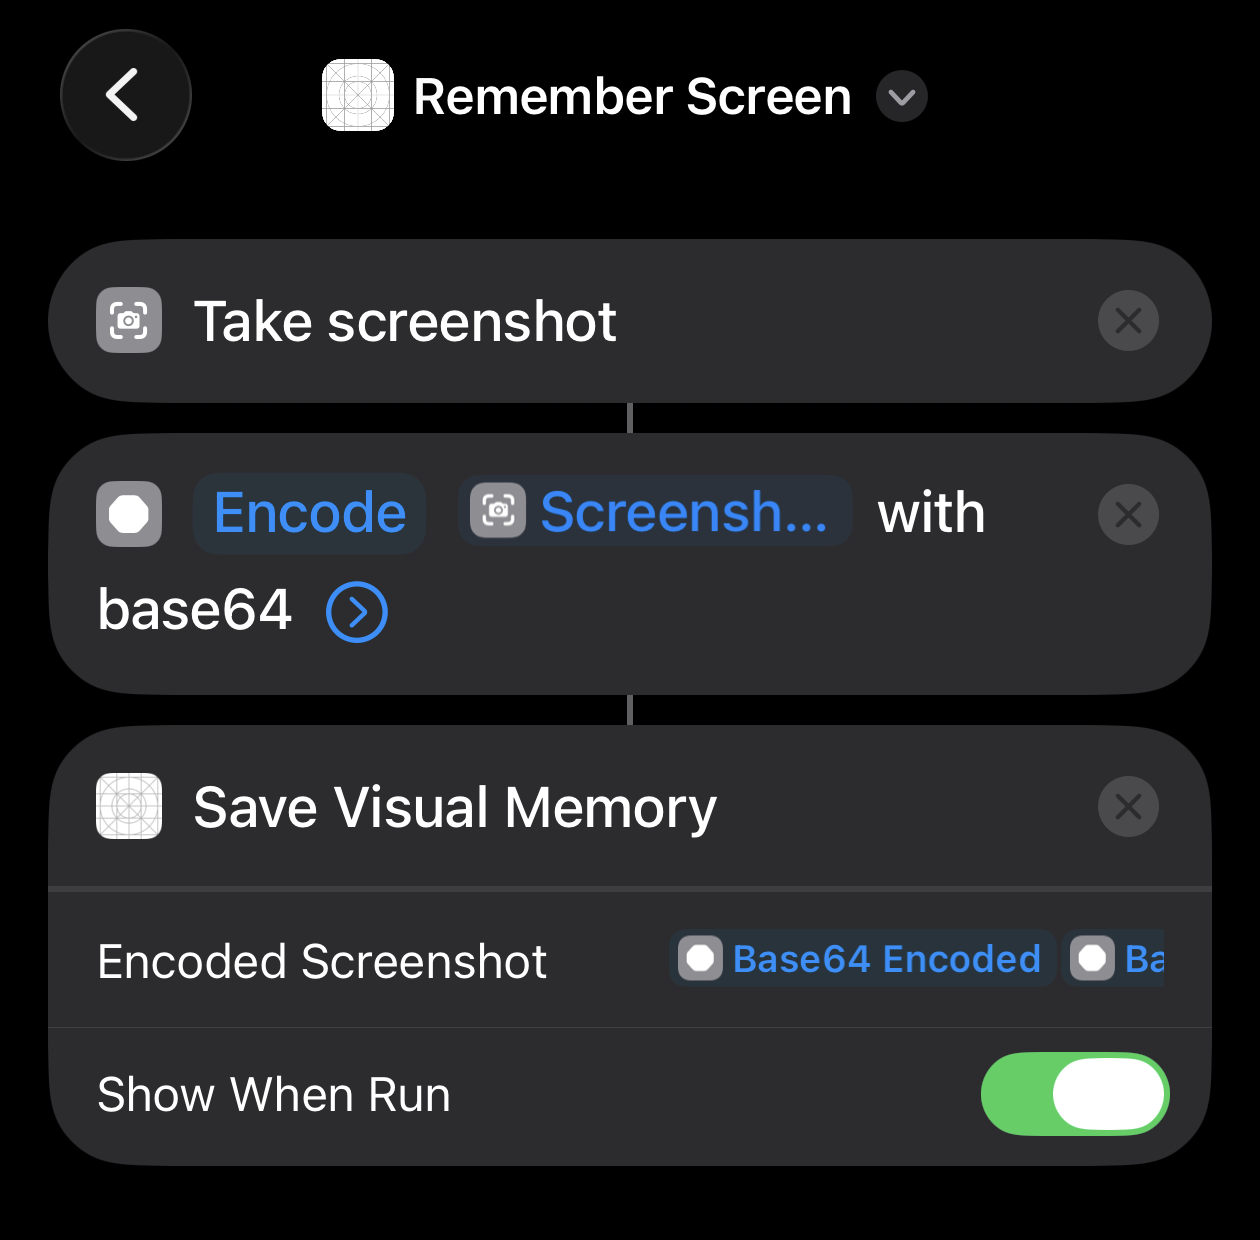
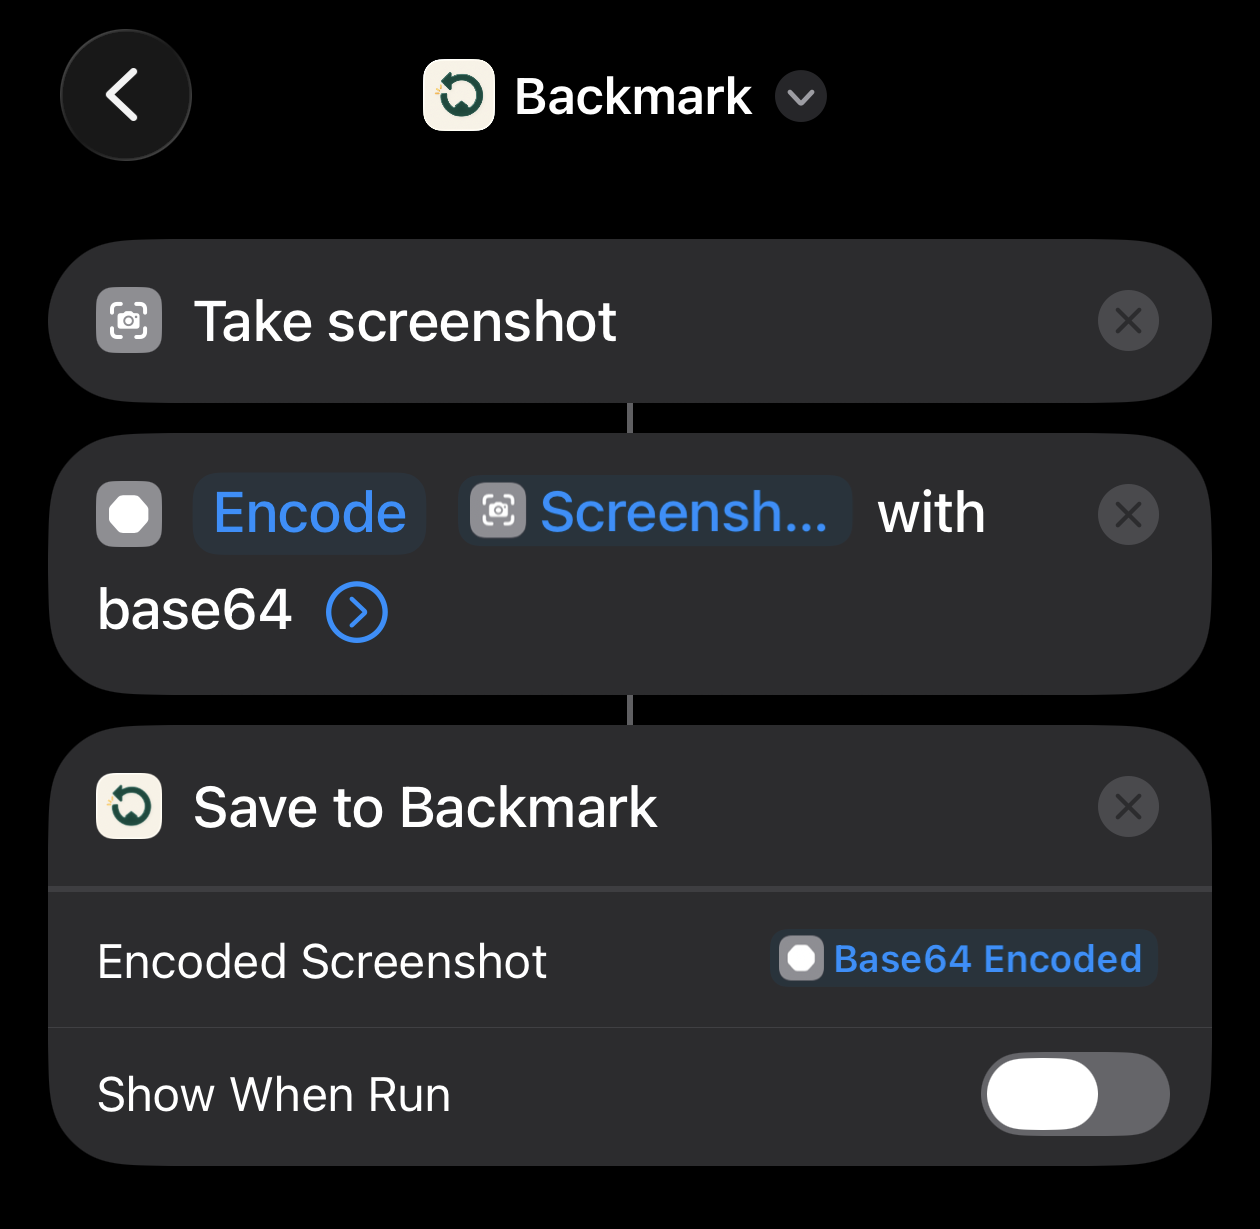
Update Back Tap shortcut example to Save to Backmark
Replace the support page's example shortcut screenshot with the current Backmark shortcut and match its caption and alt text to the Save to Backmark action.

diff --git a/docs/support.html b/docs/support.html
@@ -53,7 +53,7 @@
         </div>
         <p>Then assign “Remember Screen” to Double Tap or Triple Tap in iPhone Settings. When it runs, Backmark stores the screenshot as the Memory preview and recognizes visible text on the device so it can be searched.</p>
         <p><a class="text-link" href="https://support.apple.com/guide/shortcuts/run-shortcuts-tapping-iphone-apd897693606/ios">See Apple’s Back Tap instructions →</a></p>
-        <figure class="support-example"><img src="shortcut-remember-screen.png" alt="Example Remember Screen shortcut with Take Screenshot, Base64 Encode, and Save Visual Memory actions."><figcaption>Example shortcut: take a screenshot, encode it as Base64, then pass it to Save Visual Memory.</figcaption></figure>
+        <figure class="support-example"><img src="shortcut-remember-screen.png" alt="Example Backmark shortcut with Take Screenshot, Base64 Encode, and Save to Backmark actions."><figcaption>Example shortcut: take a screenshot, encode it as Base64, then pass it to Save to Backmark.</figcaption></figure>
       </section>
       <section><p class="section-number">03</p><h2>A source will not preview</h2><p>Some websites prevent embedded previews. Your source link remains available, and you can open it in the original website or app.</p></section>
       <section><p class="section-number">04</p><h2>Searchable screenshot text</h2><p>Backmark uses Apple’s on-device text recognition for saved screenshots and images. Recognition can vary with image quality, text size, language, and contrast.</p></section>
